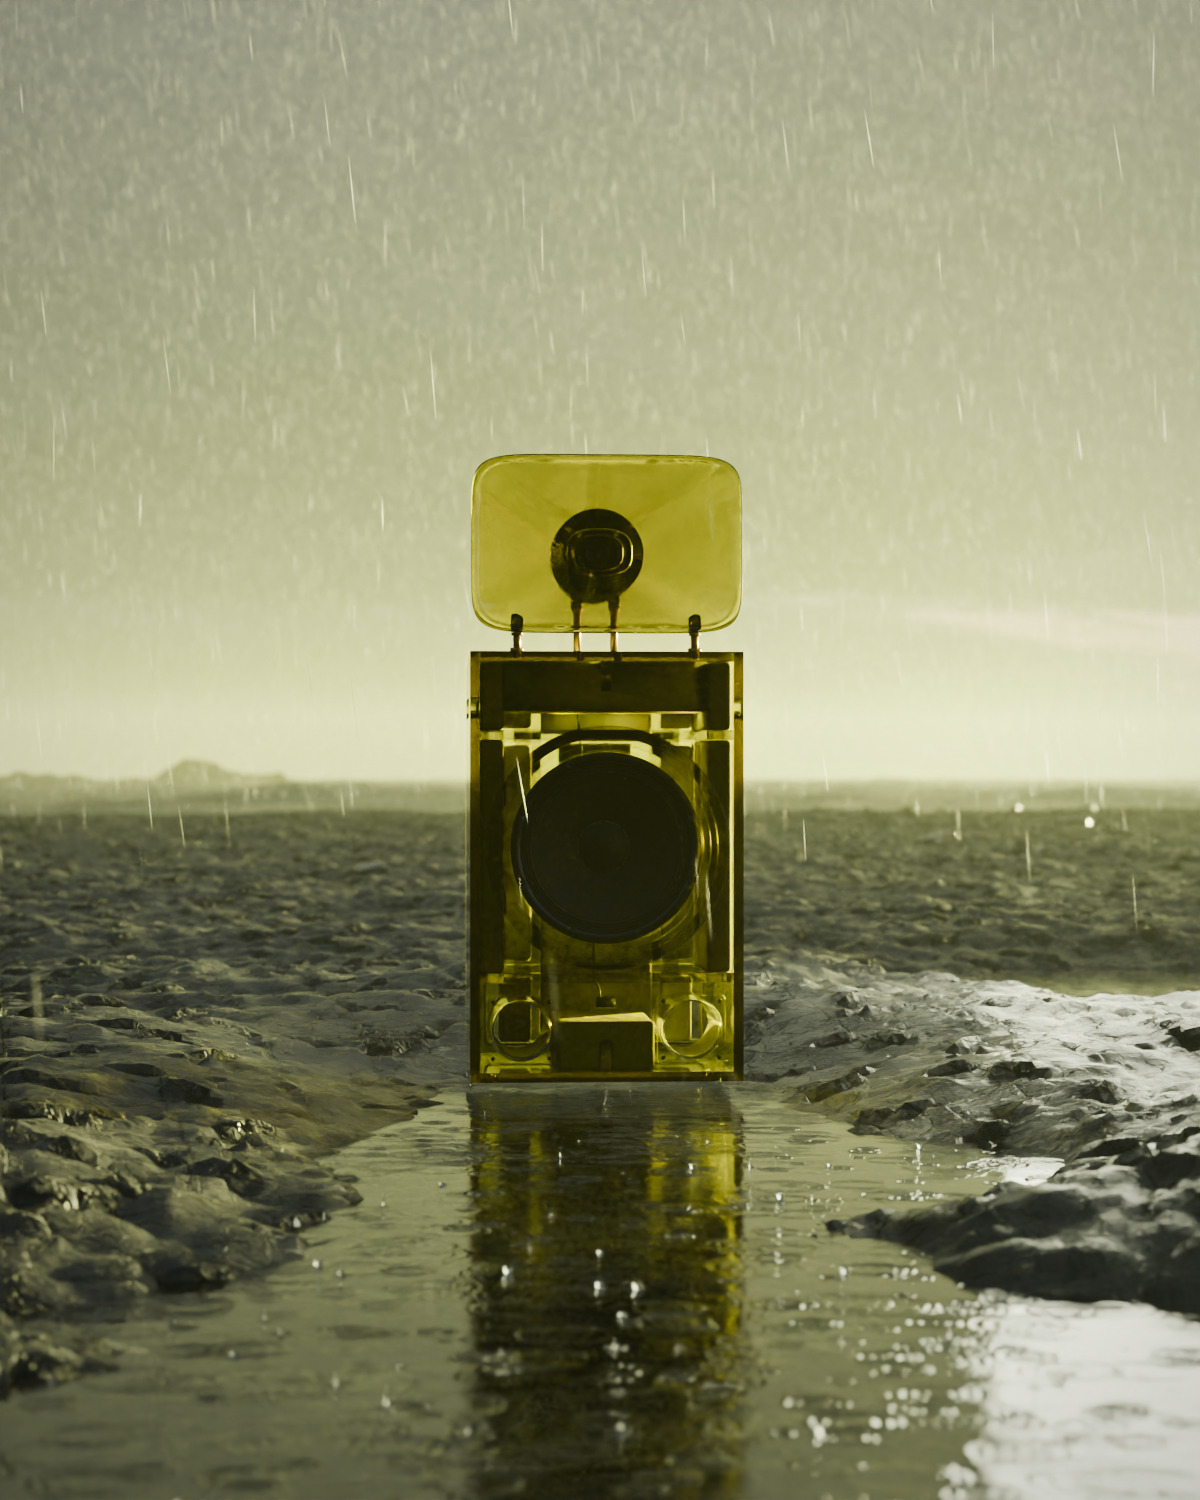
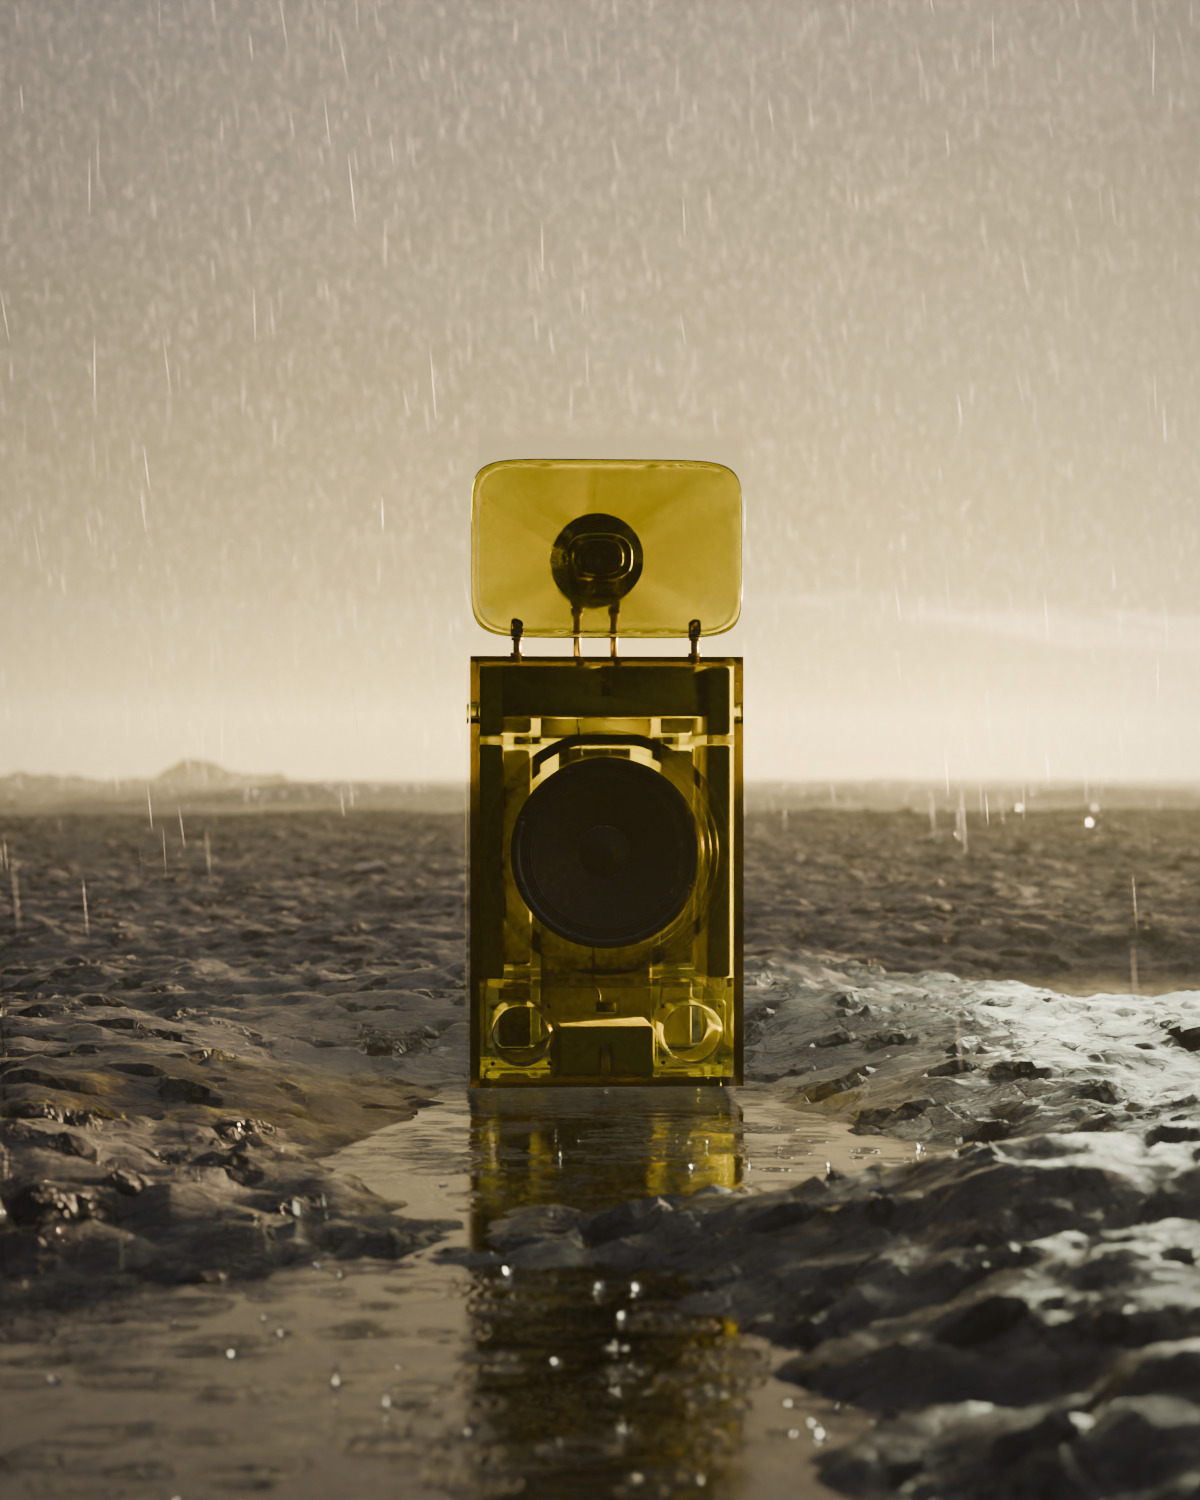
biomes: Acid final, one sun (#FECC8B at the sky's sun), the seam closed, rain off the speaker, the corner dried (gate 4/4)
Claude-Session: https://claude.ai/code/session_01BAaPTnGwdpP4WKGVD3vbqx

diff --git a/renders/2026-11-03/barkhorn/habitats/CHECK.md b/renders/2026-11-03/barkhorn/habitats/CHECK.md
@@ -20,6 +20,7 @@ Withdrawn:
 
 | Habitat | see_through | grounded | no_light_down | smooth_horn | Notes |
 |---|---|---|---|---|---|
+| Acid, the gate on cc380fab answered (2026-11-09) | PASS | PASS | PASS | PASS | One sun: the lamp at the sky's own sun (belfast_sunset at 292.9: az 120, el 2.6) in its colour #FECC8B; white balance tint 0. Sink 0.025 (the seam closed: the strip under the edge peaks at 60 against the water's 50; cc380fab 82, `acid-base-cc380fab-final.jpg`); the rain kept out of the speaker's outline, fitted to the horn; the two dips nearest the camera pulled left, so the bottom-right corner is wet rock (L 205 -> 37). The asset's old Acid dye is replaced by --split, which reproduces barkhorn-cloud.json at r33-speaker-horn 61831645 within 0.003 per channel at the wall. 64 samples, peak memory 10.4 GB. Crease 7.0 / 9.4. Hue / sat: sky 36 / 0.18, ground 35-41 / 0.19-0.29, rocks R 41 / 0.19, speaker 45 / 0.83 (`acid-ab-cc380fab-final.jpg`). Gate: the woofer, frame, braces, posts, ports and crossover show through; the reflection starts at the base edge; faint radial shading on the horn at 3x, not an X. |
 | Acid (polished, sun 35, +0.75 EV, the shared split; 2026-11-09) | PASS | PASS | PASS | PASS | Sun irradiance 35, exposure +0.75 EV, the rim unlinked, the bark and horn re-split 0.085 / 0.10 / 1.00 with luminance held (horn OKLCH 0.601 / 0.126 / 101.8, matching the speaker lane). Sink 0.015 (3 mm under the water). 64 samples, peak memory 10.4 GB. Crease 6.1 / 9.2 (Dust 7.8, Ice 7.2). Against the row below (`acid-ab-split-ev075.jpg`): frame 98.6 -> 129.0, speaker 58.2 -> 75.9, sky 135.9 -> 162.4; speaker RGB (85, 65, 24) -> (98, 94, 36), amber to the lane's yellow. Gate: the woofer, rings, braces, posts, ports and crossover block show through; the reflection starts at the base edge; faint flare-corner creases at 3x, not visible at phone size. |
 | Acid (polished, 4 deg off) | PASS | PASS | PASS | PASS | rotate_z -8, sink 0.03 (18 mm into the puddle), 64 samples. Crease 5.9 / 10.8 (Dust 7.8, Ice 7.2; it was 26.7 at 28 deg off). The woofer, frames, braces, ports, posts and screws show through. The reflection starts at the base edge. The horn is smooth, with very faint creases invisible at phone size. |
 | Fog with one sun (2026-11-09; `fog_b-portrait-1200x1500-onesun.jpg`, beside the passed b61474c0, untouched) | PASS | PASS | PASS | PASS | The audit found two suns in b61474c0: the sky's own (syferfontein_6d_clear at 204.2: az -150, el 5.8, #FEEA98, peak 5249) and a white lamp at 110. Now the sky is turned to 304.2 (hdri_sun: its sun at az 110.0, el 5.8) and the lamp is #FEEA98; everything else as b61474c0 (boulder moved, fill_l, 5400 K), plus the engine's bermuda alpha (no white flecks: 2084 px over 150 in the foreground, as the crop test). 96 samples, peak memory 6.7 GB. Crease 3.9 / 2.2. Against b61474c0 (`fog-ab-b61474c0-onesun.jpg`), b* medians: left cut edge +5.0 -> +2.9, top cut edge -2.1 -> +1.1, panels +1.6 -> +1.0, bottom block +2.6 -> -5.4, sky -7.1 -> -10.2, grass +0.4 -> +5.5 (the grass now takes the low sun: L 31.0 -> 44.3); frame 142.6 -> 134.3, sky 187.3 -> 175.6. Gate: the woofer, frames, braces, ports and crossover show through, fog and hills through the side edges; the plate sits down in the grass, darker beneath (38 against 47-49); faint corner creases on the horn, not an X. |
